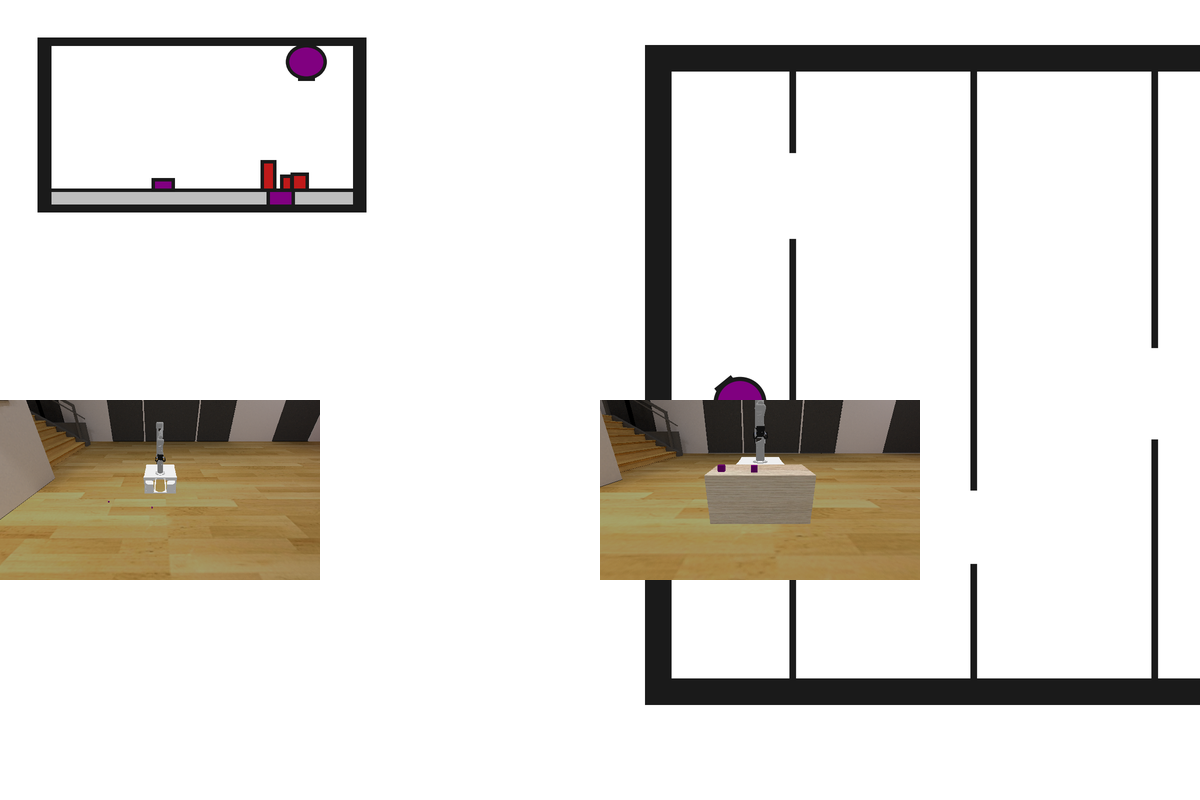
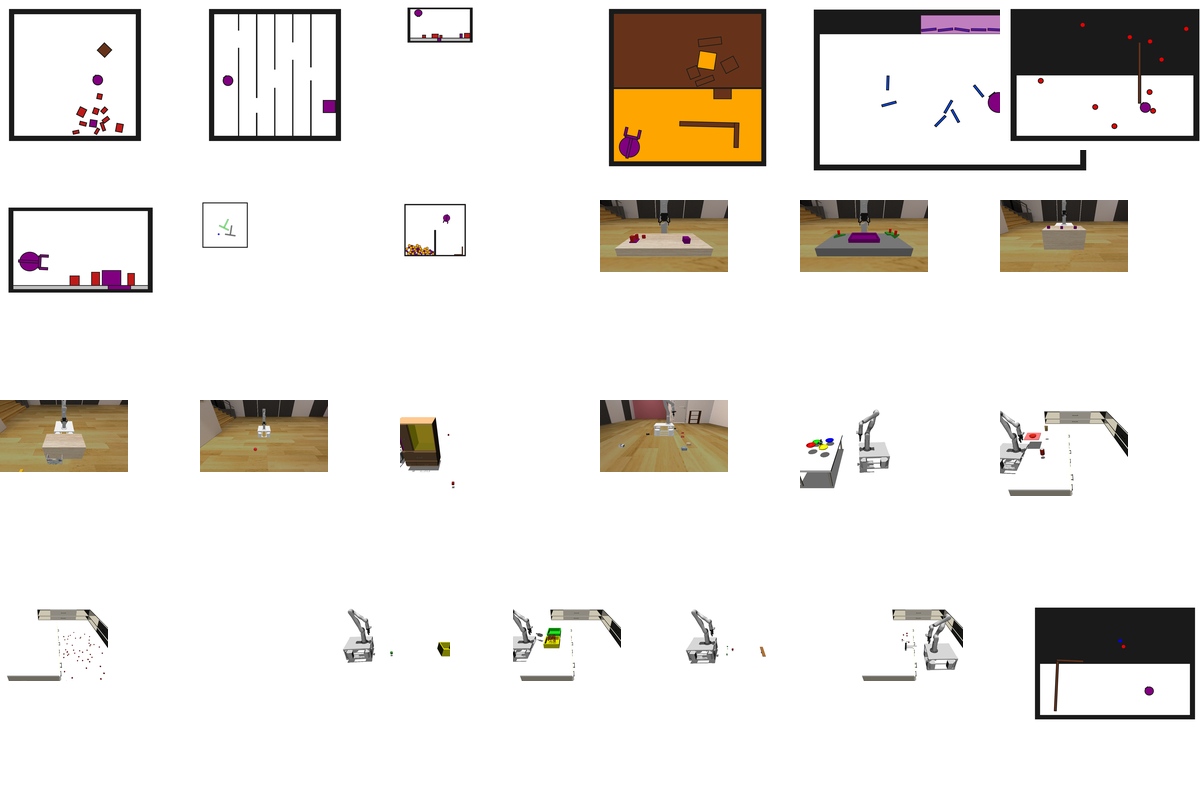
wip

diff --git a/prbench/scripts/generate_env_images.py b/prbench/scripts/generate_env_images.py
@@ -36,97 +36,90 @@ COMBINED_IMAGE_SIZE: tuple[int, int] = (1200, 800)  # (width, height)
 COMBINED_IMAGE_BACKGROUND: tuple[int, int, int] = (255, 255, 255)  # RGB
 
 # List of environments to generate images for.
-# 4-row layout: 7, 6, 6, 6 = 25 environments on 1200×800 canvas
-# Row height: 200 pixels, varying column widths for balanced appearance
+# 4-row layout: 6-6-6-7 = 25 environments on 1200×800 canvas
+# Row height: 200 pixels
 ENV_CONFIGS = [
-    # Row 1: 7 environments (y=0, 171px width each)
+    # Row 1: 6 environments (y=0, 200px width each)
     EnvImageConfig(
         env_id="prbench/ClutteredRetrieval2D-o10-v0",
         seed=42,
         crop=None,
         position=(0, 0),
-        scale=0.17,
+        scale=0.2,
     ),
     EnvImageConfig(
         env_id="prbench/Motion2D-p5-v0",
         seed=42,
         crop=None,
-        position=(171, 0),
-        scale=0.17,
+        position=(200, 0),
+        scale=0.2,
     ),
     EnvImageConfig(
         env_id="prbench/Obstruction2D-o4-v0",
         seed=42,
         crop=None,
-        position=(342, 0),
-        scale=0.17,
+        position=(400, 0),
+        scale=0.2,
     ),
     EnvImageConfig(
         env_id="prbench/DynPushPullHook2D-o5-v0",
         seed=42,
         crop=None,
-        position=(513, 0),
-        scale=0.17,
+        position=(600, 0),
+        scale=0.2,
     ),
     EnvImageConfig(
         env_id="prbench/ClutteredStorage2D-b15-v0",
         seed=42,
         crop=None,
-        position=(684, 0),
-        scale=0.17,
+        position=(800, 0),
+        scale=0.2,
     ),
     EnvImageConfig(
         env_id="prbench/StickButton2D-b10-v0",
         seed=42,
         crop=None,
-        position=(855, 0),
-        scale=0.17,
-    ),
-    EnvImageConfig(
-        env_id="prbench/DynObstruction2D-o3-v0",
-        seed=42,
-        crop=None,
-        position=(1026, 0),
-        scale=0.17,
+        position=(1000, 0),
+        scale=0.2,
     ),
     # Row 2: 6 environments (y=200, 200px width each)
     EnvImageConfig(
-        env_id="prbench/DynPushT-t1-v0",
+        env_id="prbench/DynObstruction2D-o3-v0",
         seed=42,
         crop=None,
         position=(0, 200),
         scale=0.2,
     ),
     EnvImageConfig(
-        env_id="prbench/DynScoopPour-o50-v0",
+        env_id="prbench/DynPushT-t1-v0",
         seed=42,
         crop=None,
         position=(200, 200),
         scale=0.2,
     ),
     EnvImageConfig(
-        env_id="prbench/Obstruction3D-o4-v0",
+        env_id="prbench/DynScoopPour-o50-v0",
         seed=42,
         crop=None,
         position=(400, 200),
         scale=0.2,
     ),
     EnvImageConfig(
-        env_id="prbench/Packing3D-p3-v0",
+        env_id="prbench/Obstruction3D-o4-v0",
         seed=42,
         crop=None,
         position=(600, 200),
         scale=0.2,
     ),
     EnvImageConfig(
-        env_id="prbench/Table3D-o3-v0",
+        env_id="prbench/Packing3D-p3-v0",
         seed=42,
         crop=None,
         position=(800, 200),
         scale=0.2,
     ),
     EnvImageConfig(
-        env_id="prbench/Transport3D-o2-v0",
+        env_id="prbench/Table3D-o3-v0",
         seed=42,
         crop=None,
         position=(1000, 200),
@@ -134,65 +127,97 @@ ENV_CONFIGS = [
     ),
     # Row 3: 6 environments (y=400, 200px width each)
     EnvImageConfig(
-        env_id="prbench/BaseMotion3D-v0",
+        env_id="prbench/Transport3D-o2-v0",
         seed=42,
         crop=None,
         position=(0, 400),
         scale=0.2,
     ),
     EnvImageConfig(
-        env_id="prbench/TidyBot3D-cupboard-o8-v0",
+        env_id="prbench/BaseMotion3D-v0",
         seed=42,
         crop=None,
         position=(200, 400),
         scale=0.2,
     ),
     EnvImageConfig(
-        env_id="prbench/Shelf3D-o10-v0",
+        env_id="prbench/TidyBot3D-cupboard-o8-v0",
         seed=42,
         crop=None,
         position=(400, 400),
         scale=0.2,
     ),
     EnvImageConfig(
-        env_id="prbench/TidyBot3D-sort-lab2-o20-SortClutteredBlocks-v0",
+        env_id="prbench/Shelf3D-o10-v0",
         seed=42,
         crop=None,
         position=(600, 400),
         scale=0.2,
     ),
     EnvImageConfig(
-        env_id="prbench/TidyBot3D-rearrange-lab2_kitchen-o2-put_the_boxed_drink_and_the_can_next_to_the_bowl-v0",
+        env_id="prbench/TidyBot3D-sort-lab2-o20-sort_the_cluttered_blocks_into_bowls-v0",
         seed=42,
         crop=None,
         position=(800, 400),
         scale=0.2,
     ),
     EnvImageConfig(
-        env_id="prbench/TidyBot3D-tool_use-lab2_kitchen-o50-sweep_the_blocks_to_the_left_side_of_the_kitchen_island-v0",
+        env_id="prbench/TidyBot3D-rearrange-lab2_kitchen-o2-put_the_boxed_drink_and_the_can_next_to_the_bowl-v0",
         seed=42,
         crop=None,
         position=(1000, 400),
         scale=0.2,
     ),
-    # Row 4: 6 environments (y=600, 200px width each)
-    # TODO: prbench/tidybot-namo-o1-v0 does not exist yet - using placeholder
+    # Row 4: 7 environments (y=600, ~171px width each)
     EnvImageConfig(
-        env_id="prbench/TidyBot3D-balance-o4-v0",
+        env_id="prbench/TidyBot3D-tool_use-lab2_kitchen-o50-sweep_the_blocks_to_the_left_side_of_the_kitchen_island-v0",
         seed=42,
         crop=None,
         position=(0, 600),
-        scale=0.2,
+        scale=0.17,
+    ),
+    # EnvImageConfig(
+    #     env_id="prbench/tidybot-namo-o1-v0",
+    #     seed=42,
+    #     crop=None,
+    #     position=(171, 600),
+    #     scale=0.17,
+    # ),
+    EnvImageConfig(
+        env_id="prbench/TidyBot3D-dynamic-lab2-o1-toss_the_blocks_into_the_bin-v0",
+        seed=42,
+        crop=None,
+        position=(342, 600),
+        scale=0.17,
+    ),
+    EnvImageConfig(
+        env_id="prbench/TidyBot3D-tool_use-lab2_kitchen-o5-scoop_the_blocks_from_the_yellow_bin_to_the_green_bin-v0",
+        seed=42,
+        crop=None,
+        position=(513, 600),
+        scale=0.17,
+    ),
+    EnvImageConfig(
+        env_id="prbench/TidyBot3D-dynamic-lab2-o3-balance_beam-v0",
+        seed=42,
+        crop=None,
+        position=(684, 600),
+        scale=0.17,
     ),
     EnvImageConfig(
         env_id="prbench/TidyBot3D-tool_use-lab2_kitchen-o5-sweep_the_blocks_into_the_top_drawer_of_the_kitchen_island-v0",
         seed=42,
         crop=None,
-        position=(200, 600),
-        scale=0.2,
+        position=(855, 600),
+        scale=0.17,
     ),
-    # TODO: Add 4 more environments for row 4
-    # Positions: (400, 600), (600, 600), (800, 600), (1000, 600)
+    EnvImageConfig(
+        env_id="prbench/PushPullHook2D-v0",
+        seed=42,
+        crop=None,
+        position=(1026, 600),
+        scale=0.17,
+    ),
 ]
 
 
